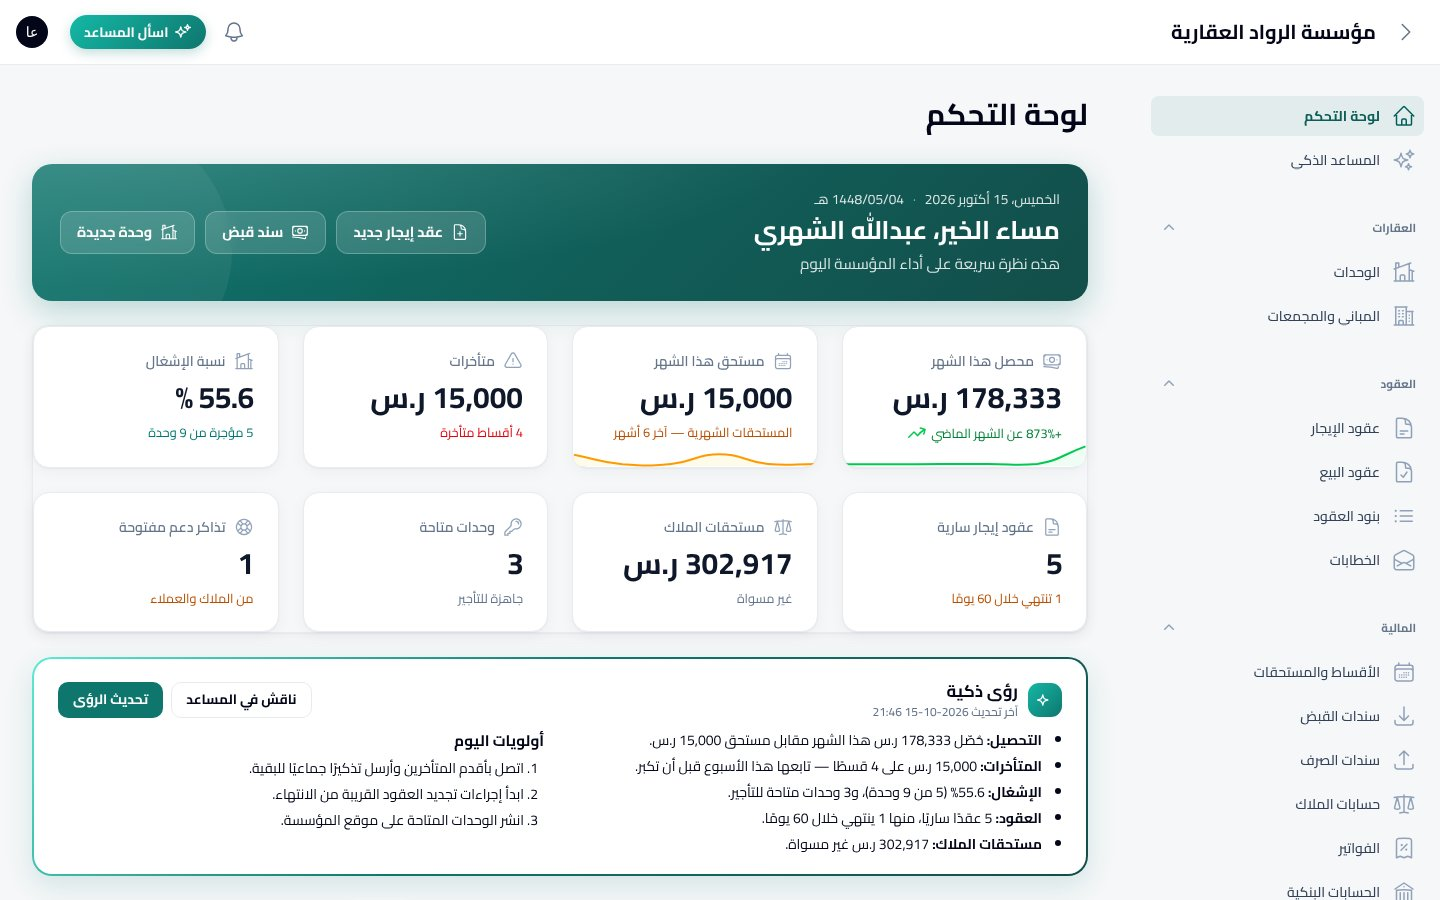
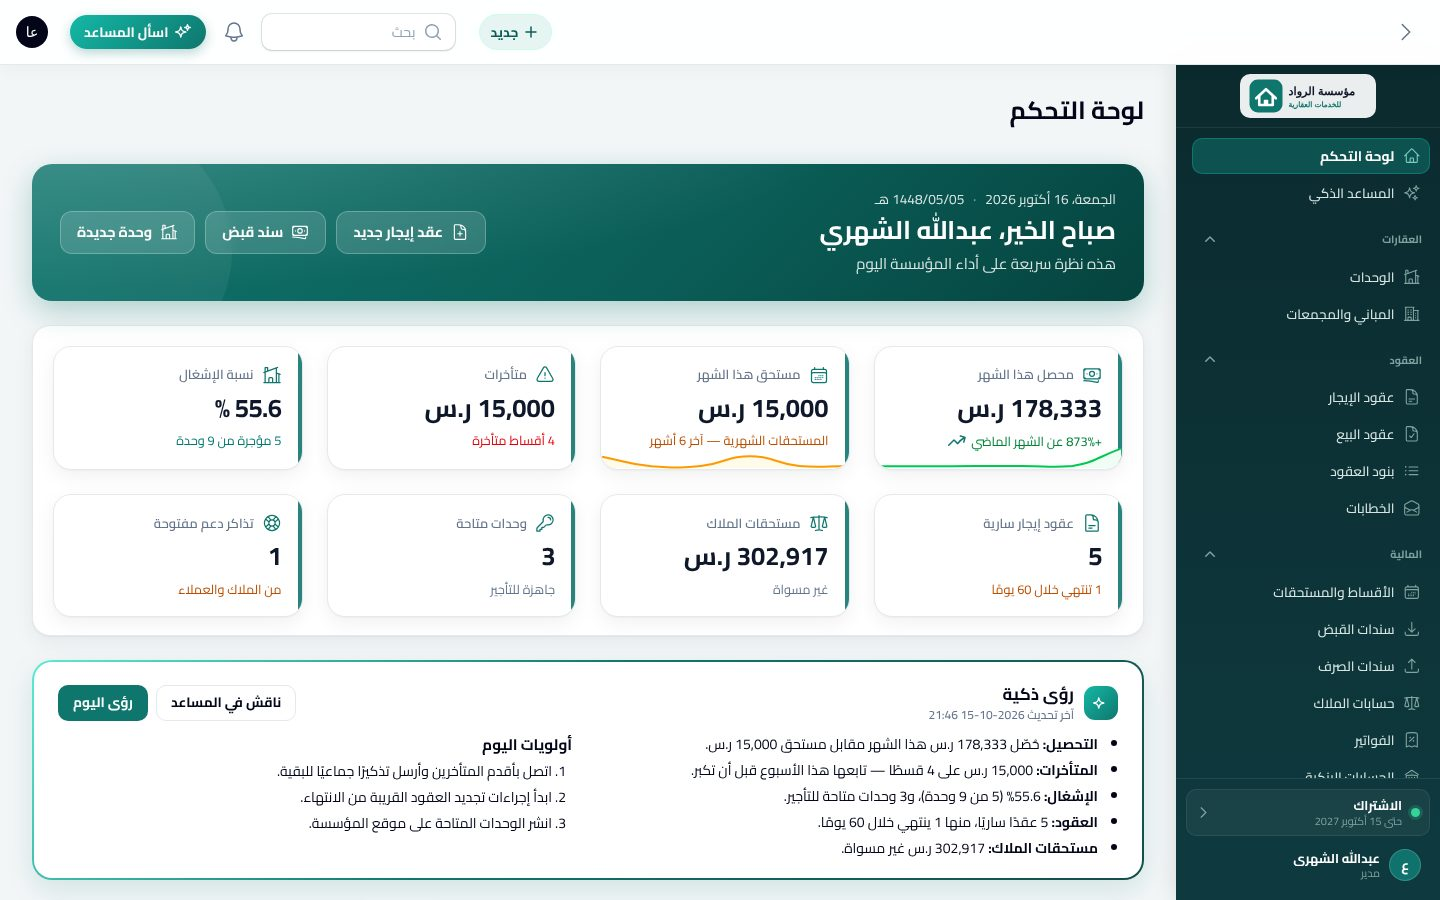
Landing page: a real hero, dark header and a Saudi-compliance strip
The platform home opened with centred text over a flat screenshot. It now opens with a hero:

- Dark branded hero with glows and a dot grid; copy, two CTAs (free trial / demo), the three
  trust notes and a row of capability chips on the start side.
- Product composition on the other side: the demo dashboard in a tilted browser frame, the
  tenant portal on a phone, and three floating cards (collected this month, an automatic
  reminder, the AI assistant) with a gentle float animation (off under reduced motion).
- "مبني للأنظمة السعودية" strip: ZATCA e-invoicing, 15% VAT, Umm al-Qura calendar, PDPL,
  Labour Law/GOSI — factual compliance, not third-party logos.
- The sticky header is dark so it blends with the hero on every public page.
- Fresh captures of the demo office for the hero images (dashboard.jpg, client-mobile.jpg).
- Responsive: single column with the frame alone below 1100px, no floats on phones.

Claude-Session: https://claude.ai/code/session_01D4WDk2iADz5yKpGWAvS4UR

diff --git a/resources/views/platform/home.blade.php b/resources/views/platform/home.blade.php
@@ -49,24 +49,67 @@
     .demo-btn { margin-top: 10px; }
     .demo-cred { display: block; text-align: center; color: rgb(255 255 255 / .85); margin-top: 10px; font-size: .82rem; position: relative; }
     .demo-btn { position: relative; }
-    .hero { position: relative; overflow: hidden; padding: 72px 0 0; background:
-        radial-gradient(900px 420px at 85% -10%, rgb(20 184 166 / .16), transparent 60%),
-        radial-gradient(700px 380px at 0% 10%, rgb(235 104 52 / .08), transparent 60%), #fff; }
-    .hero-grid { display: grid; grid-template-columns: 1fr; gap: 40px; text-align: center; }
-    .hero h1 { font-size: clamp(2rem, 5vw, 3.4rem); font-weight: 800; letter-spacing: -.01em; margin: 18px auto 16px; max-width: 900px; }
-    .hero h1 .hl { white-space: nowrap; background: linear-gradient(90deg, var(--brand), #14b8a6); -webkit-background-clip: text; background-clip: text; color: transparent; }
-    .hero .lead { font-size: clamp(1.05rem, 2vw, 1.25rem); color: var(--muted); max-width: 720px; margin: 0 auto 28px; }
-    .hero .cta { display: flex; gap: 12px; justify-content: center; flex-wrap: wrap; }
-    .hero .note { margin-top: 14px; color: var(--muted); font-size: .92rem; display: flex; gap: 18px; justify-content: center; flex-wrap: wrap; }
+    /* ---------- hero ---------- */
+    .hero { position: relative; overflow: hidden; padding: 84px 0 96px; color: #fff;
+        background: linear-gradient(165deg, #04201d 0%, #0a3330 45%, #0f5f58 100%); }
+    .hero::before { content: ""; position: absolute; inset: 0; pointer-events: none;
+        background: radial-gradient(900px 500px at 88% 0%, rgb(45 212 191 / .22), transparent 60%),
+                    radial-gradient(700px 420px at 0% 100%, rgb(235 104 52 / .16), transparent 60%),
+                    radial-gradient(rgb(255 255 255 / .09) 1px, transparent 1px);
+        background-size: auto, auto, 28px 28px; mask-image: linear-gradient(180deg, #000 55%, transparent 100%); }
+    .hero-grid { position: relative; display: grid; grid-template-columns: minmax(0, 1.05fr) minmax(0, 1fr); gap: 48px; align-items: center; }
+    .hero .eyebrow { color: #99f6e4; background: rgb(255 255 255 / .08); border-color: rgb(255 255 255 / .16); backdrop-filter: blur(6px); }
+    .hero .eyebrow i { width: 8px; height: 8px; border-radius: 50%; background: #2dd4bf; box-shadow: 0 0 0 4px rgb(45 212 191 / .25); }
+    .hero h1 { color: #fff; font-size: clamp(2.1rem, 4.6vw, 3.6rem); font-weight: 800; letter-spacing: -.01em; line-height: 1.25; margin: 20px 0 18px; }
+    .hero h1 .hl { white-space: nowrap; background: linear-gradient(90deg, #5eead4, #2dd4bf 60%, #fbbf24); -webkit-background-clip: text; background-clip: text; color: transparent; }
+    .hero .lead { font-size: clamp(1.05rem, 1.7vw, 1.22rem); color: rgb(255 255 255 / .8); max-width: 600px; margin: 0 0 30px; line-height: 1.8; }
+    .hero .cta { display: flex; gap: 12px; flex-wrap: wrap; }
+    .btn-hero { background: #fff; color: var(--brand-ink); box-shadow: 0 12px 30px rgb(0 0 0 / .25); }
+    .btn-hero:hover { background: #f0fdfa; }
+    .btn-outline { background: rgb(255 255 255 / .06); color: #fff; border-color: rgb(255 255 255 / .28); backdrop-filter: blur(6px); }
+    .btn-outline:hover { background: rgb(255 255 255 / .12); }
+    .btn .play { width: 26px; height: 26px; border-radius: 50%; background: #2dd4bf; color: #04201d; display: grid; place-items: center; }
+    .btn .play svg { width: 12px; height: 12px; margin-inline-start: 2px; }
+    .hero .note { margin-top: 20px; color: rgb(255 255 255 / .72); font-size: .9rem; display: flex; gap: 6px 20px; flex-wrap: wrap; }
     .hero .note span { display: inline-flex; align-items: center; gap: 6px; }
-    .hero .note .icon { width: 18px; height: 18px; color: var(--brand); }
-    .browser { margin: 48px auto 0; max-width: 1080px; border-radius: 18px 18px 0 0; background: #fff; border: 1px solid var(--line); border-bottom: 0;
-        box-shadow: 0 30px 80px rgb(15 23 42 / .18); overflow: hidden; }
-    .browser .chrome { display: flex; align-items: center; gap: 8px; padding: 12px 16px; background: var(--soft); border-bottom: 1px solid var(--line); direction: ltr; }
-    .browser .chrome i { width: 11px; height: 11px; border-radius: 50%; background: #e2e8f0; display: block; }
-    .browser .chrome i:nth-child(1) { background: #fca5a5; } .browser .chrome i:nth-child(2) { background: #fcd34d; } .browser .chrome i:nth-child(3) { background: #86efac; }
-    .browser .chrome .url { margin-inline-start: 12px; flex: 1; max-width: 360px; background: #fff; border: 1px solid var(--line); border-radius: 8px; padding: 3px 12px; font-size: .8rem; color: var(--muted); }
-    .browser img { width: 100%; height: auto; }
+    .hero .note .icon { width: 17px; height: 17px; color: #5eead4; }
+    .hero .chips { display: flex; flex-wrap: wrap; gap: 8px; margin-top: 30px; padding-top: 24px; border-top: 1px solid rgb(255 255 255 / .12); }
+    .hero .chips span { font-size: .78rem; font-weight: 700; color: #ccfbf1; background: rgb(255 255 255 / .07); border: 1px solid rgb(255 255 255 / .12); border-radius: 999px; padding: 5px 12px; }
+
+    .hero__visual { position: relative; min-height: 520px; }
+    .shot { position: absolute; border-radius: 16px; overflow: hidden; background: #fff; box-shadow: 0 40px 90px rgb(0 0 0 / .45), 0 0 0 1px rgb(255 255 255 / .12); }
+    .shot--desktop { inset-inline-start: 0; top: 24px; width: 100%; transform: perspective(1800px) rotateY(10deg) rotateX(3deg); transform-origin: center; }
+    [dir="ltr"] .shot--desktop { transform: perspective(1800px) rotateY(-10deg) rotateX(3deg); }
+    .shot--desktop .chrome { display: flex; align-items: center; gap: 7px; padding: 10px 14px; background: #f1f5f9; border-bottom: 1px solid var(--line); direction: ltr; }
+    .shot--desktop .chrome i { width: 10px; height: 10px; border-radius: 50%; background: #e2e8f0; display: block; }
+    .shot--desktop .chrome i:nth-child(1) { background: #fca5a5; } .shot--desktop .chrome i:nth-child(2) { background: #fcd34d; } .shot--desktop .chrome i:nth-child(3) { background: #86efac; }
+    .shot--desktop .chrome .url { margin-inline-start: 10px; flex: 1; max-width: 300px; background: #fff; border: 1px solid var(--line); border-radius: 7px; padding: 2px 10px; font-size: .74rem; color: var(--muted); }
+    .shot img { width: 100%; height: auto; display: block; }
+    .shot--phone { inset-inline-end: -18px; bottom: -10px; width: 176px; border-radius: 26px; padding: 8px; background: #0f172a; box-shadow: 0 30px 60px rgb(0 0 0 / .5), 0 0 0 1px rgb(255 255 255 / .18); z-index: 3; }
+    .shot--phone img { border-radius: 19px; }
+    .shot--phone::before { content: ""; position: absolute; top: 14px; left: 50%; transform: translateX(-50%); width: 56px; height: 6px; border-radius: 6px; background: #1e293b; z-index: 2; }
+    .float { position: absolute; z-index: 4; background: #fff; color: var(--ink); border-radius: 14px; padding: 10px 14px; box-shadow: 0 18px 40px rgb(0 0 0 / .35); font-size: .82rem; display: flex; align-items: center; gap: 10px;
+        animation: floaty 6s ease-in-out infinite; }
+    .float b { display: block; font-size: 1.05rem; font-weight: 800; line-height: 1.2; }
+    .float small { color: var(--muted); font-weight: 600; }
+    .float .up { color: #047857; font-weight: 800; font-size: .8rem; }
+    .float .ico { width: 36px; height: 36px; border-radius: 10px; display: grid; place-items: center; flex: none; }
+    .float .ico svg { width: 20px; height: 20px; }
+    .float--kpi { inset-inline-start: -28px; top: -6px; }
+    .float--kpi .ico { background: #ecfdf5; color: #047857; }
+    .float--msg { inset-inline-start: -12px; bottom: 64px; max-width: 290px; animation-delay: -2s; }
+    .float--msg .ico { background: #eff6ff; color: #1d4ed8; }
+    .float--ai { inset-inline-end: 150px; bottom: -22px; animation-delay: -4s; background: linear-gradient(135deg, #0f766e, #134e4a); color: #fff; }
+    .float--ai .ico { background: rgb(255 255 255 / .16); color: #fff; }
+    .float--ai small { color: rgb(255 255 255 / .7); }
+    @keyframes floaty { 0%, 100% { transform: translateY(0); } 50% { transform: translateY(-8px); } }
+    @media (prefers-reduced-motion: reduce) { .float { animation: none; } }
+
+    .compat { padding: 26px 0; background: #fff; border-bottom: 1px solid var(--line); }
+    .compat .row { display: flex; align-items: center; justify-content: center; flex-wrap: wrap; gap: 10px 28px; color: var(--muted); font-size: .9rem; }
+    .compat .row > span:first-child { font-weight: 700; color: var(--ink); }
+    .compat .item { display: inline-flex; align-items: center; gap: 8px; font-weight: 700; color: #475569; }
+    .compat .item .icon { width: 20px; height: 20px; color: var(--brand); }
 
     .stats { display: grid; grid-template-columns: repeat(4, 1fr); gap: 16px; }
     .stat { text-align: center; padding: 8px; }
@@ -144,6 +187,14 @@
     .final h2 { color: #fff; font-size: clamp(1.6rem, 3vw, 2.3rem); font-weight: 800; margin-bottom: 10px; }
     .final p { opacity: .88; margin: 0 0 24px; font-size: 1.08rem; }
 
+    @media (max-width: 1100px) {
+        .hero-grid { grid-template-columns: 1fr; gap: 40px; text-align: center; }
+        .hero .lead { margin-inline: auto; } .hero .cta, .hero .note, .hero .chips { justify-content: center; }
+        .hero__visual { min-height: 0; max-width: 760px; margin: 0 auto; padding-bottom: 40px; }
+        .shot--desktop { position: relative; top: 0; transform: none; }
+        .shot--phone, .float--msg { display: none; }
+        .float--kpi { inset-inline-start: 8px; top: -18px; } .float--ai { inset-inline-end: 8px; bottom: 10px; }
+    }
     @media (max-width: 960px) {
         .features, .portals, .steps, .plans { grid-template-columns: 1fr 1fr; }
         .split { grid-template-columns: 1fr; }
@@ -151,35 +202,65 @@
     }
     @media (max-width: 640px) {
         .features, .portals, .steps, .plans { grid-template-columns: 1fr; }
-        .browser { margin-top: 32px; }
+        .hero { padding: 56px 0 64px; }
+        .float { display: none; }
     }
 @endsection
 
 @section('content')
     <section class="hero">
         <div class="container hero-grid">
-            <div>
-                <span class="eyebrow">{{ __('نظام إدارة أملاك سحابي للمنشآت العقارية في المملكة') }}</span>
+            <div class="hero__copy">
+                <span class="eyebrow"><i></i>{{ __('منصة سعودية سحابية لإدارة الأملاك — عربي أولًا') }}</span>
                 <h1>{{ __('أدر عقاراتك وعقودك وتحصيلك') }} <span class="hl">{{ __('من مكان واحد') }}</span></h1>
                 <p class="lead">{{ __('عقار نوفا يجمع الوحدات والعقود والدفعات وحسابات الملاك والفوترة الإلكترونية في نظام واحد سهل، مع بوابة للملاك وأخرى للمستأجرين وموقع خاص لمؤسستك.') }}</p>
                 <div class="cta">
-                    <a class="btn btn-primary btn-lg" href="{{ route('central.signup', [], false) }}">{{ __('ابدأ تجربتك المجانية') }}</a>
+                    <a class="btn btn-hero btn-lg" href="{{ route('central.signup', [], false) }}">{{ __('ابدأ تجربتك المجانية') }}</a>
                     @if ($demoUrl)
-                        <a class="btn btn-ghost btn-lg" href="#demo">{{ __('جرّب النسخة التجريبية') }}</a>
+                        <a class="btn btn-outline btn-lg" href="#demo"><span class="play"><svg viewBox="0 0 24 24" fill="currentColor"><path d="M8 5v14l11-7z"/></svg></span>{{ __('جرّب النسخة التجريبية') }}</a>
                     @else
-                        <a class="btn btn-ghost btn-lg" href="#pricing">{{ __('شاهد الأسعار') }}</a>
+                        <a class="btn btn-outline btn-lg" href="#pricing">{{ __('شاهد الأسعار') }}</a>
                     @endif
                 </div>
                 <div class="note">
-                    <span><svg class="icon" viewBox="0 0 24 24" fill="none" stroke="currentColor" stroke-width="2"><path stroke-linecap="round" stroke-linejoin="round" d="{{ $icons['check'] }}"/></svg>{{ __('14 يومًا مجانًا') }}</span>
-                    <span><svg class="icon" viewBox="0 0 24 24" fill="none" stroke="currentColor" stroke-width="2"><path stroke-linecap="round" stroke-linejoin="round" d="{{ $icons['check'] }}"/></svg>{{ __('بدون بطاقة ائتمان') }}</span>
-                    <span><svg class="icon" viewBox="0 0 24 24" fill="none" stroke="currentColor" stroke-width="2"><path stroke-linecap="round" stroke-linejoin="round" d="{{ $icons['check'] }}"/></svg>{{ __('ننقل بياناتك من نظام رواد السابق') }}</span>
+                    <span><svg class="icon" viewBox="0 0 24 24" fill="none" stroke="currentColor" stroke-width="2.4"><path stroke-linecap="round" stroke-linejoin="round" d="{{ $icons['check'] }}"/></svg>{{ __('14 يومًا مجانًا') }}</span>
+                    <span><svg class="icon" viewBox="0 0 24 24" fill="none" stroke="currentColor" stroke-width="2.4"><path stroke-linecap="round" stroke-linejoin="round" d="{{ $icons['check'] }}"/></svg>{{ __('بدون بطاقة ائتمان') }}</span>
+                    <span><svg class="icon" viewBox="0 0 24 24" fill="none" stroke="currentColor" stroke-width="2.4"><path stroke-linecap="round" stroke-linejoin="round" d="{{ $icons['check'] }}"/></svg>{{ __('ننقل بياناتك من نظام رواد السابق') }}</span>
+                </div>
+                <div class="chips" aria-label="{{ __('أبرز المزايا') }}">
+                    @foreach (['فوترة إلكترونية ZATCA', 'التقويم الهجري والميلادي', 'مساعد ذكاء اصطناعي', 'بوابة الملاك', 'بوابة المستأجرين', 'رسائل SMS وواتساب', 'موارد بشرية ورواتب', 'موقع لمؤسستك'] as $chip)
+                        <span>{{ __($chip) }}</span>
+                    @endforeach
                 </div>
             </div>
-            <div class="browser">
-                <div class="chrome"><i></i><i></i><i></i><span class="url">your-company.{{ config('rowad.tenancy.base_domain') }}/admin</span></div>
-                <img src="{{ asset('images/platform/dashboard.jpg') }}" width="1440" height="900" alt="{{ __('لوحة تحكم المؤسسة في عقار نوفا') }}">
+            <div class="hero__visual" aria-hidden="true">
+                <div class="shot shot--desktop">
+                    <div class="chrome"><i></i><i></i><i></i><span class="url">your-company.{{ config('rowad.tenancy.base_domain') }}/admin</span></div>
+                    <img src="{{ asset('images/platform/dashboard.jpg') }}" width="1440" height="900" alt="{{ __('لوحة تحكم المؤسسة في عقار نوفا') }}" fetchpriority="high">
+                </div>
+                <div class="shot shot--phone"><img src="{{ asset('images/platform/client-mobile.jpg') }}" width="390" height="780" alt="" loading="lazy"></div>
+                <div class="float float--kpi">
+                    <span class="ico"><svg viewBox="0 0 24 24" fill="none" stroke="currentColor" stroke-width="1.8"><path stroke-linecap="round" stroke-linejoin="round" d="M2.25 18 9 11.25l4.306 4.306a11.95 11.95 0 0 1 5.814-5.518l2.74-1.22m0 0-5.94-2.281m5.94 2.28-2.28 5.941"/></svg></span>
+                    <span><small>{{ __('محصل هذا الشهر') }}</small><b>178,333 {{ __('ر.س') }}</b><span class="up">▲ 12% {{ __('عن الشهر الماضي') }}</span></span>
+                </div>
+                <div class="float float--msg">
+                    <span class="ico"><svg viewBox="0 0 24 24" fill="none" stroke="currentColor" stroke-width="1.8"><path stroke-linecap="round" stroke-linejoin="round" d="M21.75 6.75v10.5a2.25 2.25 0 0 1-2.25 2.25h-15a2.25 2.25 0 0 1-2.25-2.25V6.75m19.5 0A2.25 2.25 0 0 0 19.5 4.5h-15a2.25 2.25 0 0 0-2.25 2.25m19.5 0v.243a2.25 2.25 0 0 1-1.07 1.916l-7.5 4.615a2.25 2.25 0 0 1-2.36 0L3.32 8.91a2.25 2.25 0 0 1-1.07-1.916V6.75"/></svg></span>
+                    <span><b style="font-size:.88rem">{{ __('أُرسل تذكير للمستأجر') }}</b><small>{{ __('خالد الحربي — قسط 1 نوفمبر قبل 3 أيام') }}</small></span>
+                </div>
+                <div class="float float--ai">
+                    <span class="ico">✦</span>
+                    <span><b style="font-size:.88rem">{{ __('المساعد الذكي') }}</b><small>{{ __('4 أقساط متأخرة بإجمالي 15,000 ر.س — أرسل تذكيرًا جماعيًا؟') }}</small></span>
+                </div>
             </div>
+        </div>
+    </section>
+
+    <section class="compat">
+        <div class="container row">
+            <span>{{ __('مبني للأنظمة السعودية:') }}</span>
+            @foreach ([['receipt', 'الفوترة الإلكترونية — هيئة الزكاة والضريبة والجمارك'], ['scale', 'ضريبة القيمة المضافة 15%'], ['sync', 'تقويم أم القرى الهجري'], ['shield', 'نظام حماية البيانات الشخصية'], ['users', 'نظام العمل والتأمينات الاجتماعية']] as [$ic, $label])
+                <span class="item"><svg class="icon" viewBox="0 0 24 24" fill="none" stroke="currentColor" stroke-width="1.8"><path stroke-linecap="round" stroke-linejoin="round" d="{{ $icons[$ic] }}"/></svg>{{ __($label) }}</span>
+            @endforeach
         </div>
     </section>
 

diff --git a/resources/views/platform/layout.blade.php b/resources/views/platform/layout.blade.php
@@ -39,7 +39,11 @@
         .icon { width: 22px; height: 22px; flex: none; }
 
         /* header */
-        header.top { position: sticky; top: 0; z-index: 20; background: rgb(255 255 255 / .9); backdrop-filter: blur(10px); border-bottom: 1px solid var(--line); }
+        header.top { position: sticky; top: 0; z-index: 20; background: rgb(4 32 29 / .88); backdrop-filter: blur(12px); border-bottom: 1px solid rgb(255 255 255 / .08); color: #fff; }
+        header.top .brand { color: #fff; } header.top .brand .nova { color: #5eead4; } header.top .brand-logo { filter: brightness(1.25); }
+        header.top nav.links { color: rgb(255 255 255 / .82); } header.top nav.links a:hover { color: #5eead4; }
+        header.top .lang { color: rgb(255 255 255 / .75); } header.top .lang:hover { background: rgb(255 255 255 / .08); color: #fff; }
+        header.top .btn-primary { background: #fff; color: var(--brand-ink); box-shadow: none; } header.top .btn-primary:hover { background: #ccfbf1; }
         header.top .bar { display: flex; align-items: center; justify-content: space-between; gap: 16px; min-height: 70px; }
         .brand { display: flex; align-items: center; gap: 10px; font-weight: 800; font-size: 1.35rem; color: var(--ink); letter-spacing: -.01em; }
         .brand .nova { color: #0f8a72; }

diff --git a/docs/decisions.md b/docs/decisions.md
@@ -368,3 +368,14 @@
 - The sidebar is narrower (16.5rem) with tighter items, a footer card (subscription state for admins,
   office contact for portal users, and the signed-in user) and a "جديد" quick-create menu in the topbar.
 - The platform console keeps the Aqar Nova brand; only tenant panels are re-skinned.
+
+## Landing page hero (2026-10-16)
+
+- The platform home opens with a dark, branded hero: copy and CTAs on the start side, a product
+  composition on the other (the demo dashboard in a tilted browser frame, the tenant portal on a phone,
+  and three floating cards: collected-this-month KPI, an automatic reminder, the AI assistant).
+  The screenshots are real captures of the demo office (`public/images/platform/dashboard.jpg`,
+  `client-mobile.jpg`); re-capture them when the panels change.
+- A "built for Saudi regulations" strip (ZATCA e-invoicing, 15% VAT, Umm al-Qura calendar, PDPL,
+  Labour Law/GOSI) sits under the hero as factual compliance, not logos of third parties.
+- The sticky header is dark so it blends with the hero on every public page.
